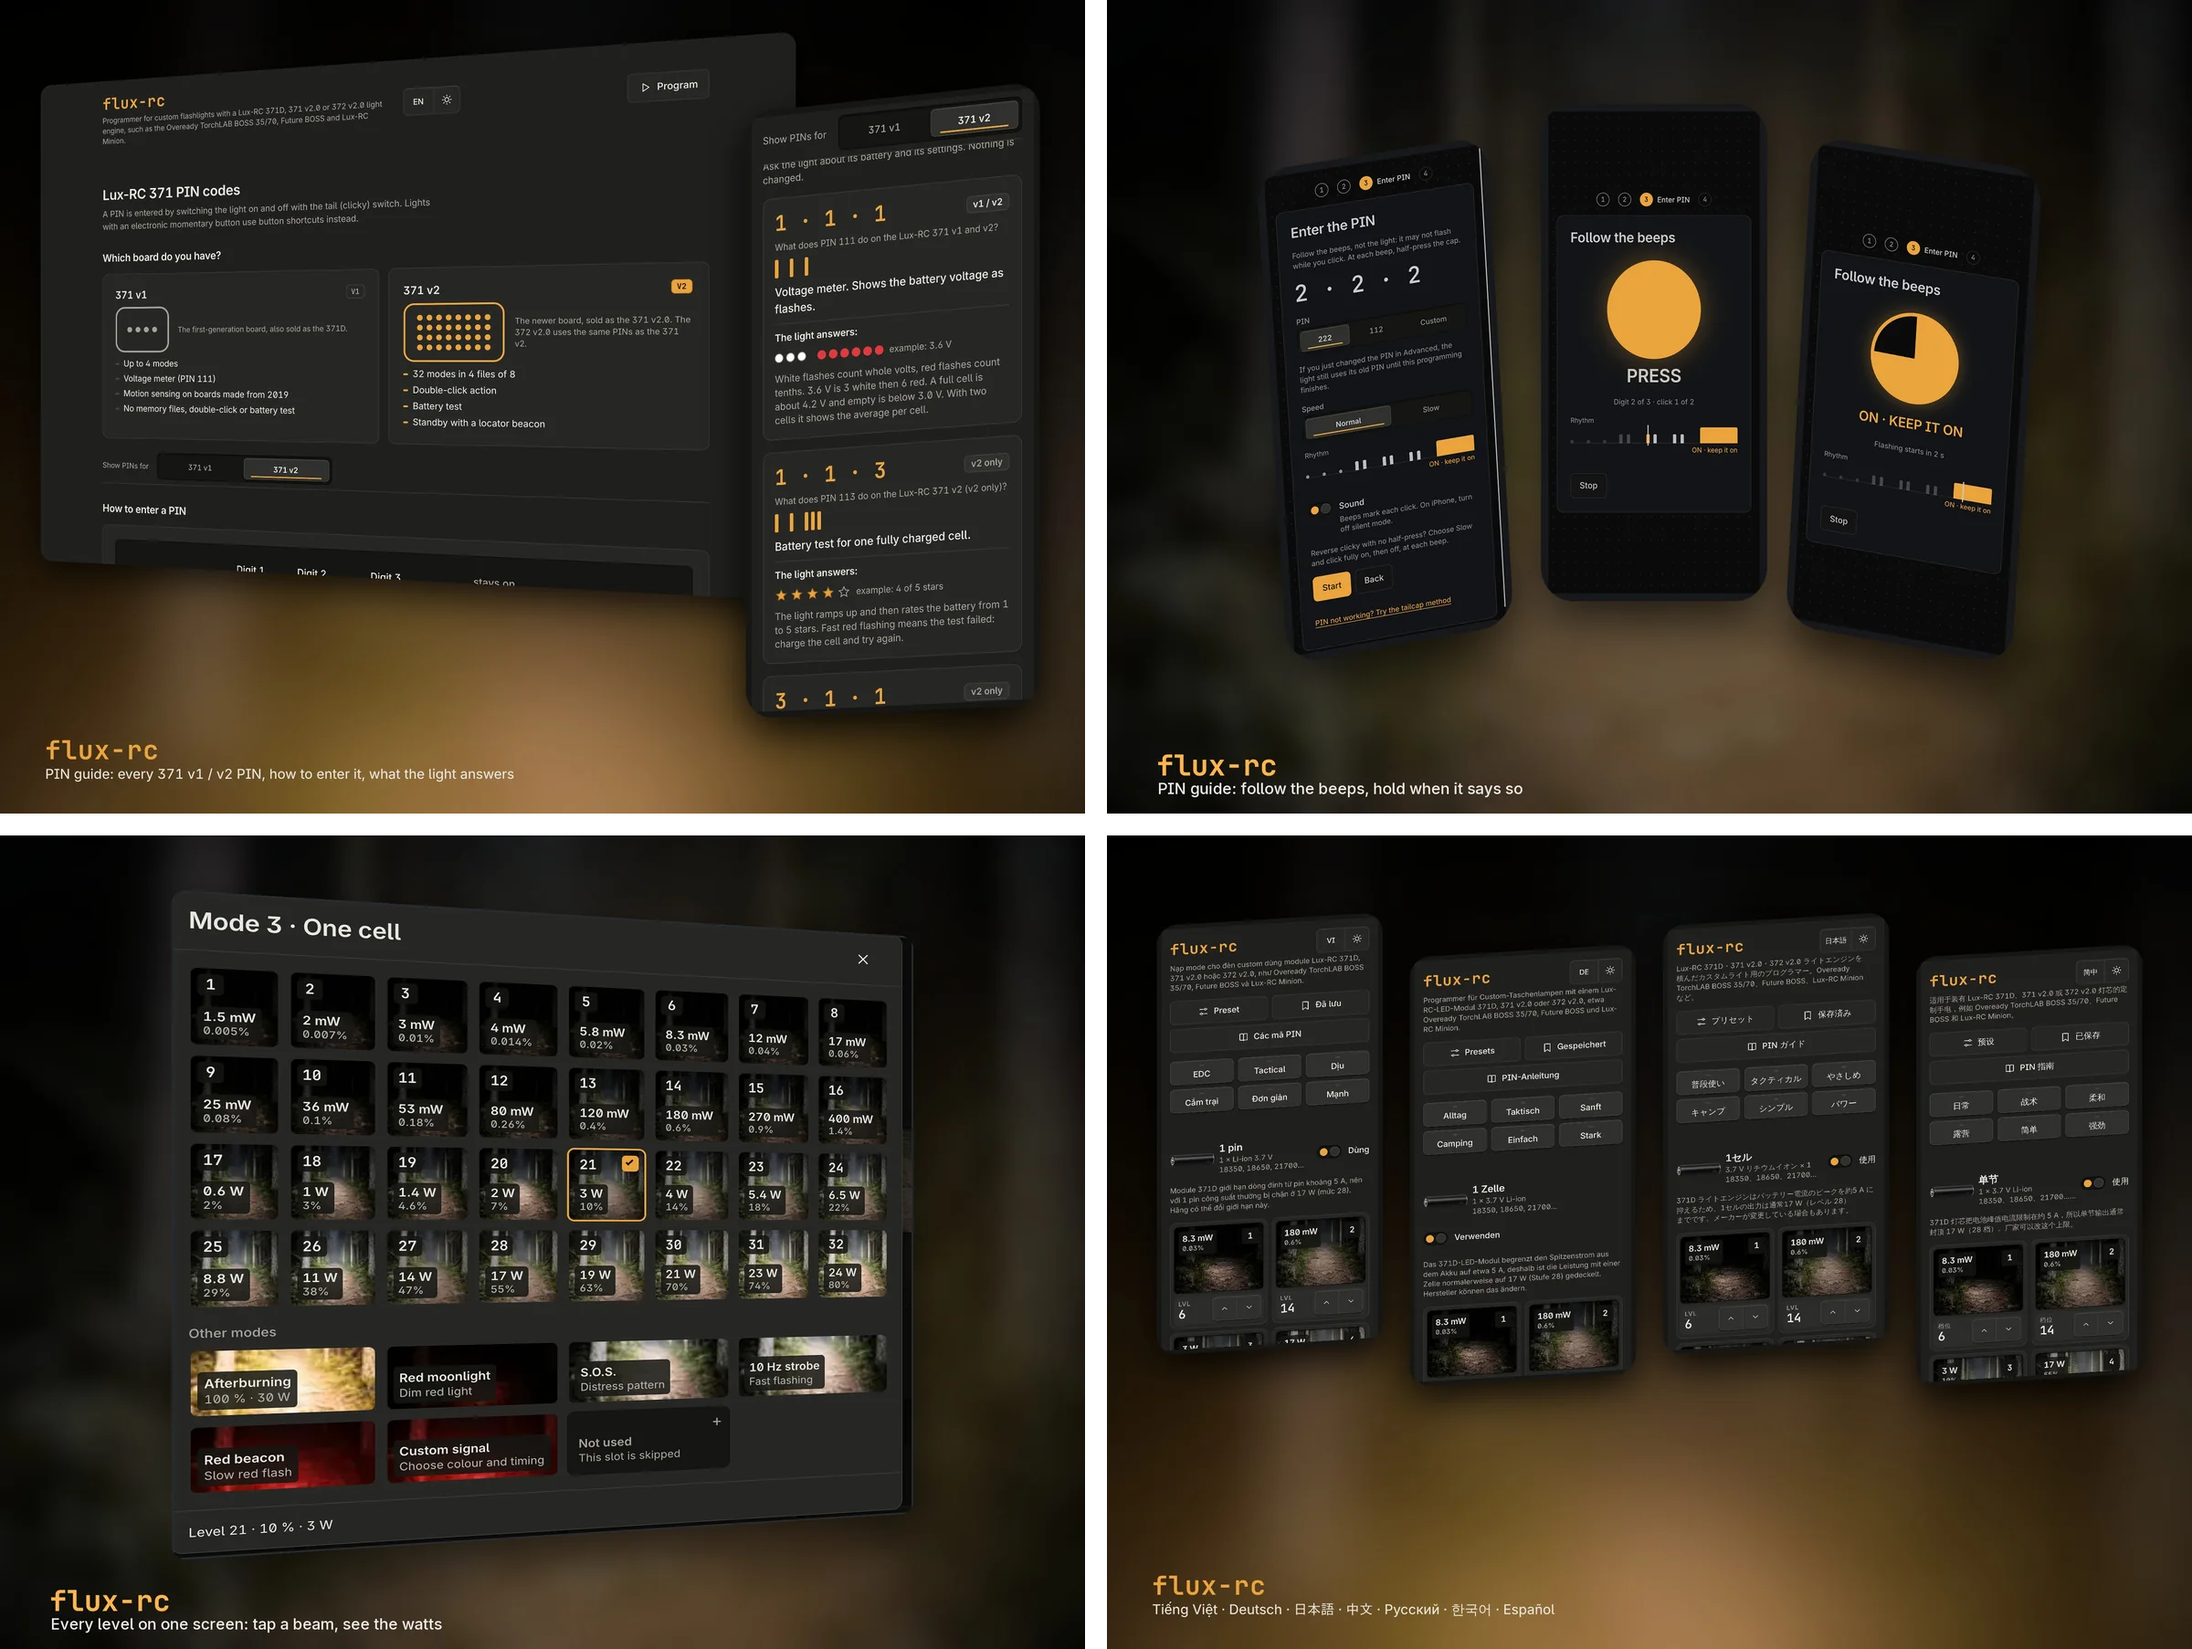
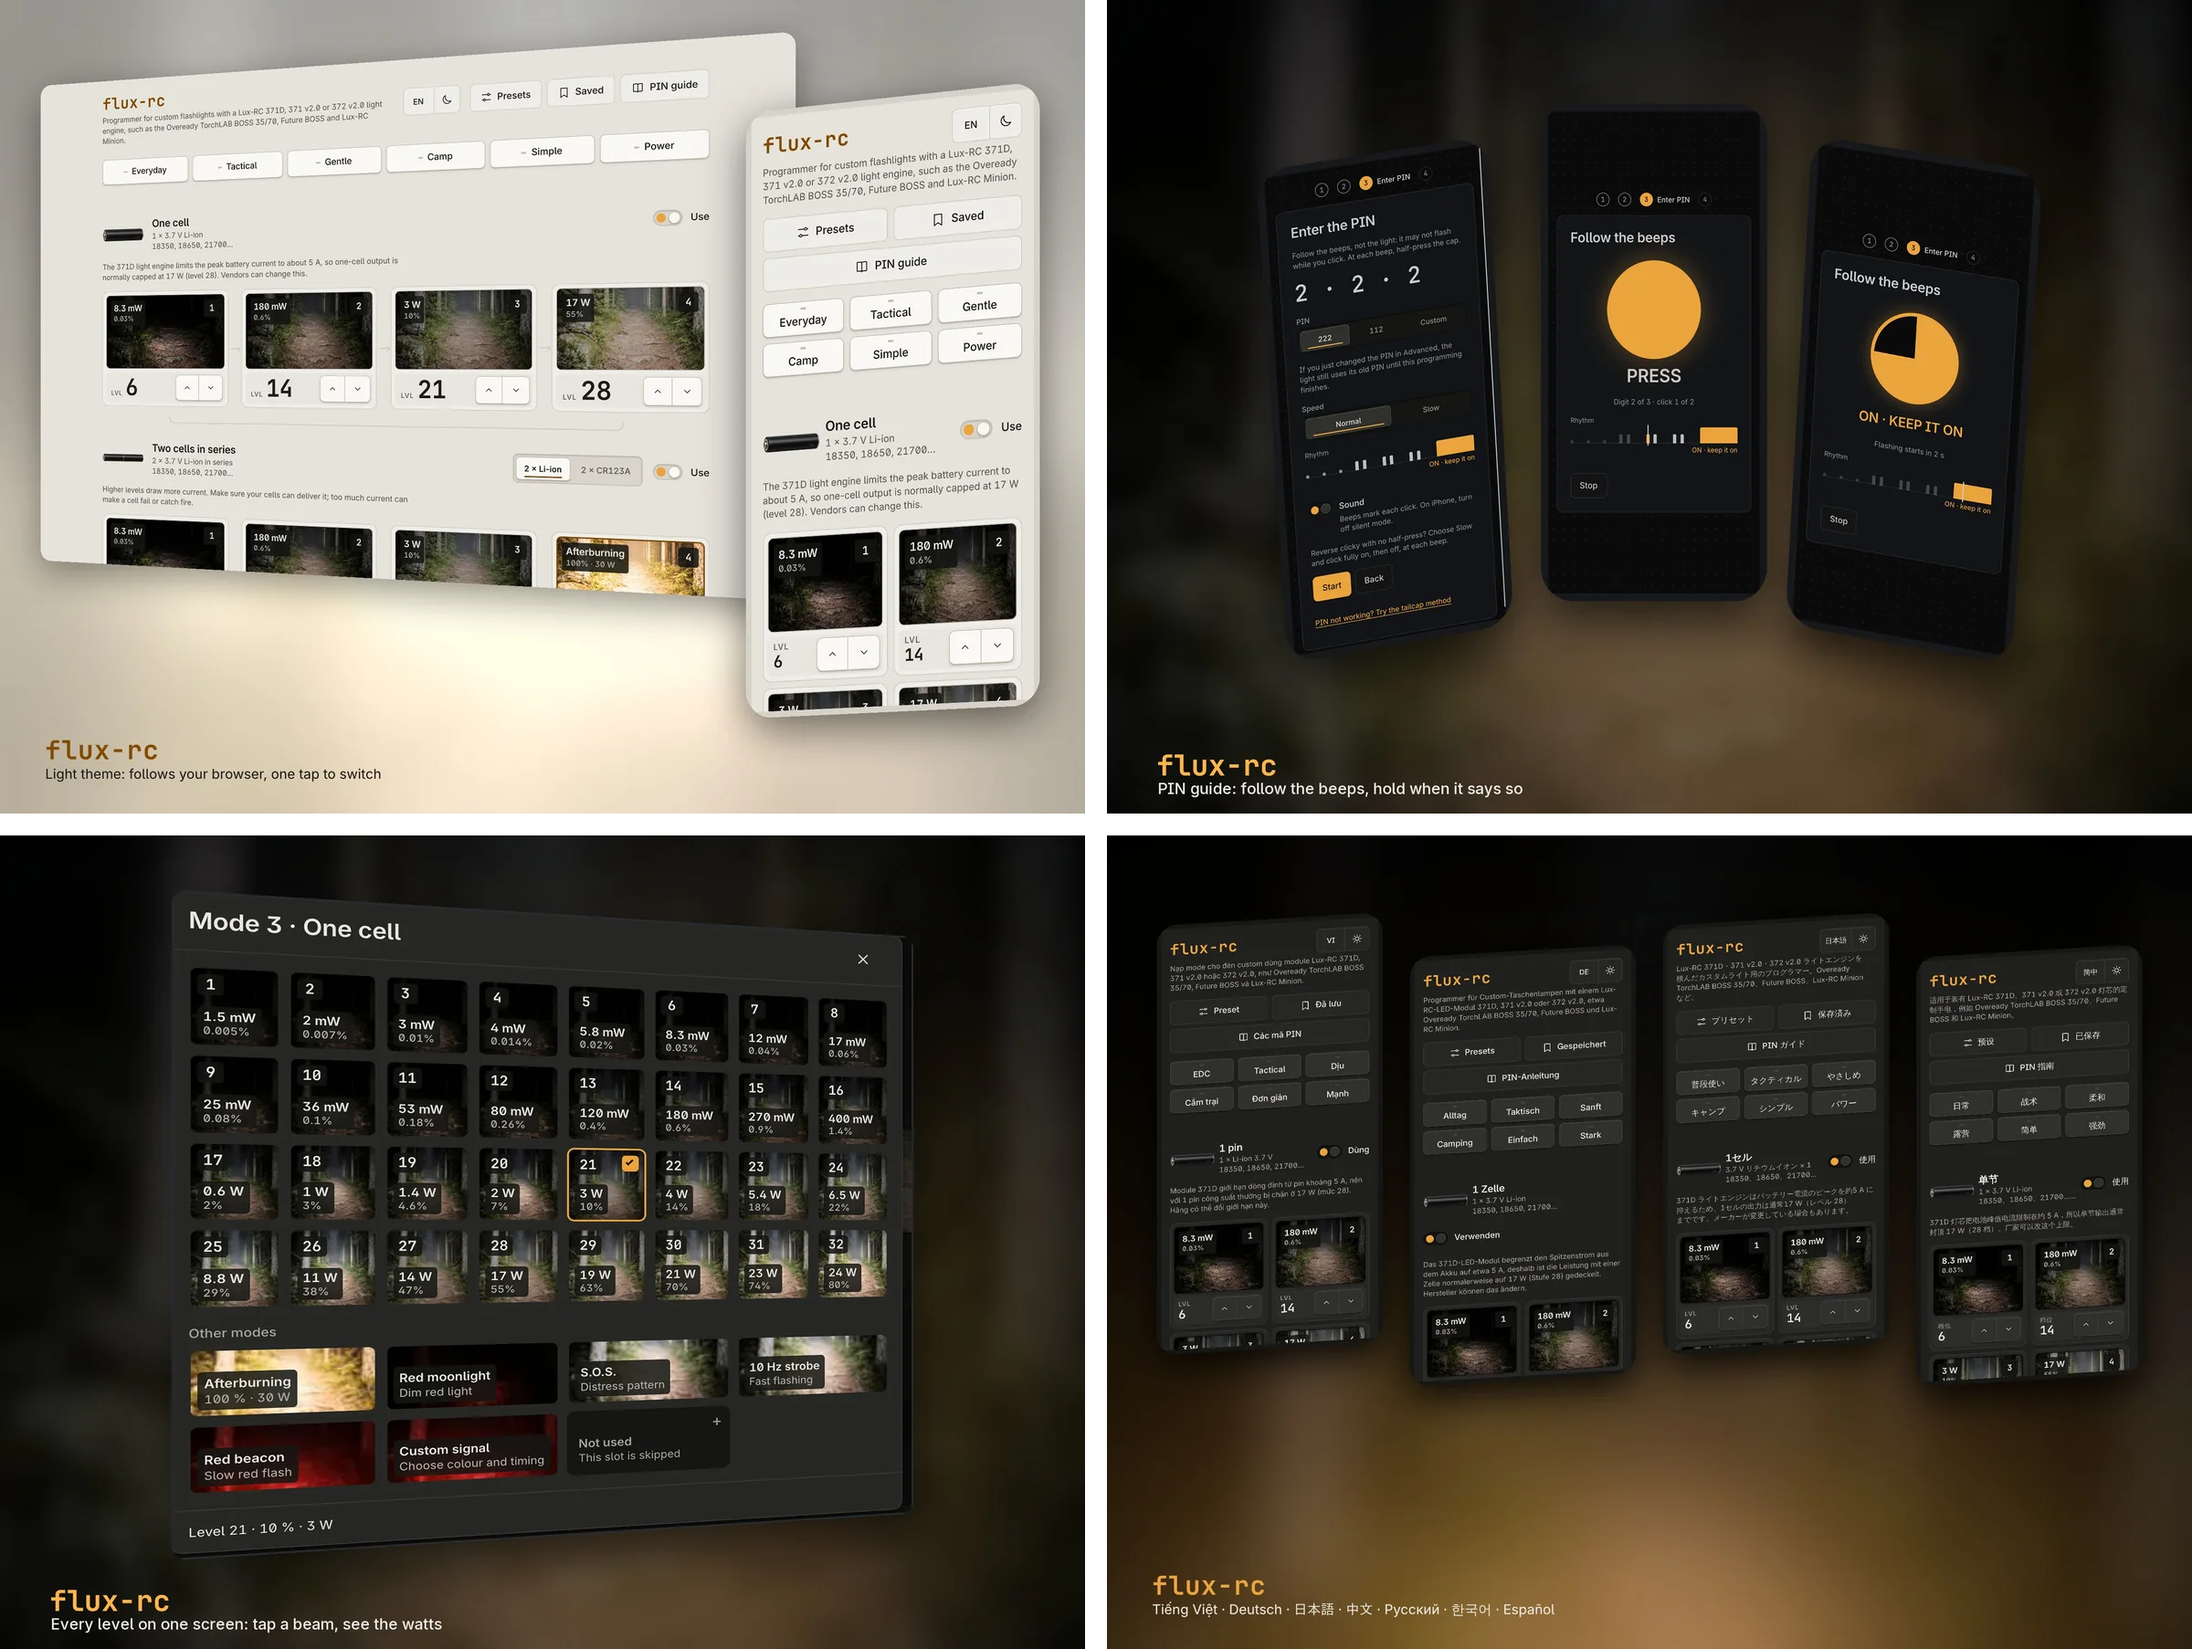
README: PIN guide as its own full-width screenshot, and light-theme shots
The guide was one small tile in the grid. It now has its own full-width image, taken in the light
theme, under the hero. The grid's first tile is the programmer in the light theme (6-light.jpg), so
the README no longer shows only the dark theme.

Claude-Session: https://claude.ai/code/session_019mueKSBp19qZ9ygBRr5hMB

Changed region(s): [[0.0, 0.0, 0.5, 0.4961]]

diff --git a/README.md b/README.md
@@ -16,7 +16,9 @@ What changed and when: [CHANGELOG.md](CHANGELOG.md).
 
 ![flux-rc on desktop and phone](docs/screenshots/1-hero.jpg)
 
-![The PIN guide page, entering a PIN with the beeping rhythm guide, the mode picker with every level and its power, and the page in Vietnamese, German, Japanese and Chinese](docs/screenshots/overview.webp)
+![The PIN guide page in the light theme: the 371 v1 and v2 boards and the PIN codes](docs/screenshots/5-guide.jpg)
+
+![The light theme, entering a PIN with the beeping rhythm guide, the mode picker with every level and its power, and the page in Vietnamese, German, Japanese and Chinese](docs/screenshots/overview.webp)
 
 ## What it does
 
@@ -83,7 +85,7 @@ Every other branch gets a preview build (`npx wrangler preview`, which needs the
 | `docs/protocol.md` | The optical protocol, reverse engineered and verified |
 | `docs/config-model.md` | The config object the UI edits |
 | `docs/design.md` | UI layout and behaviour |
-| `docs/screenshots/` | Images for this README (not deployed); `overview.webp` is a 2 × 2 grid of `5-guide`, `2-pin`, `3-picker` and `4-languages` |
+| `docs/screenshots/` | Images for this README (not deployed); `overview.webp` is a 2 × 2 grid of `6-light`, `2-pin`, `3-picker` and `4-languages` |
 | `CHANGELOG.md` | What changed on the live page, by date |
 | `wrangler.jsonc`, `.assetsignore`, `_headers` | Cloudflare deploy settings |
 | `robots.txt`, `sitemap.xml`, `assets/og.jpg` | For search engines and link previews |
